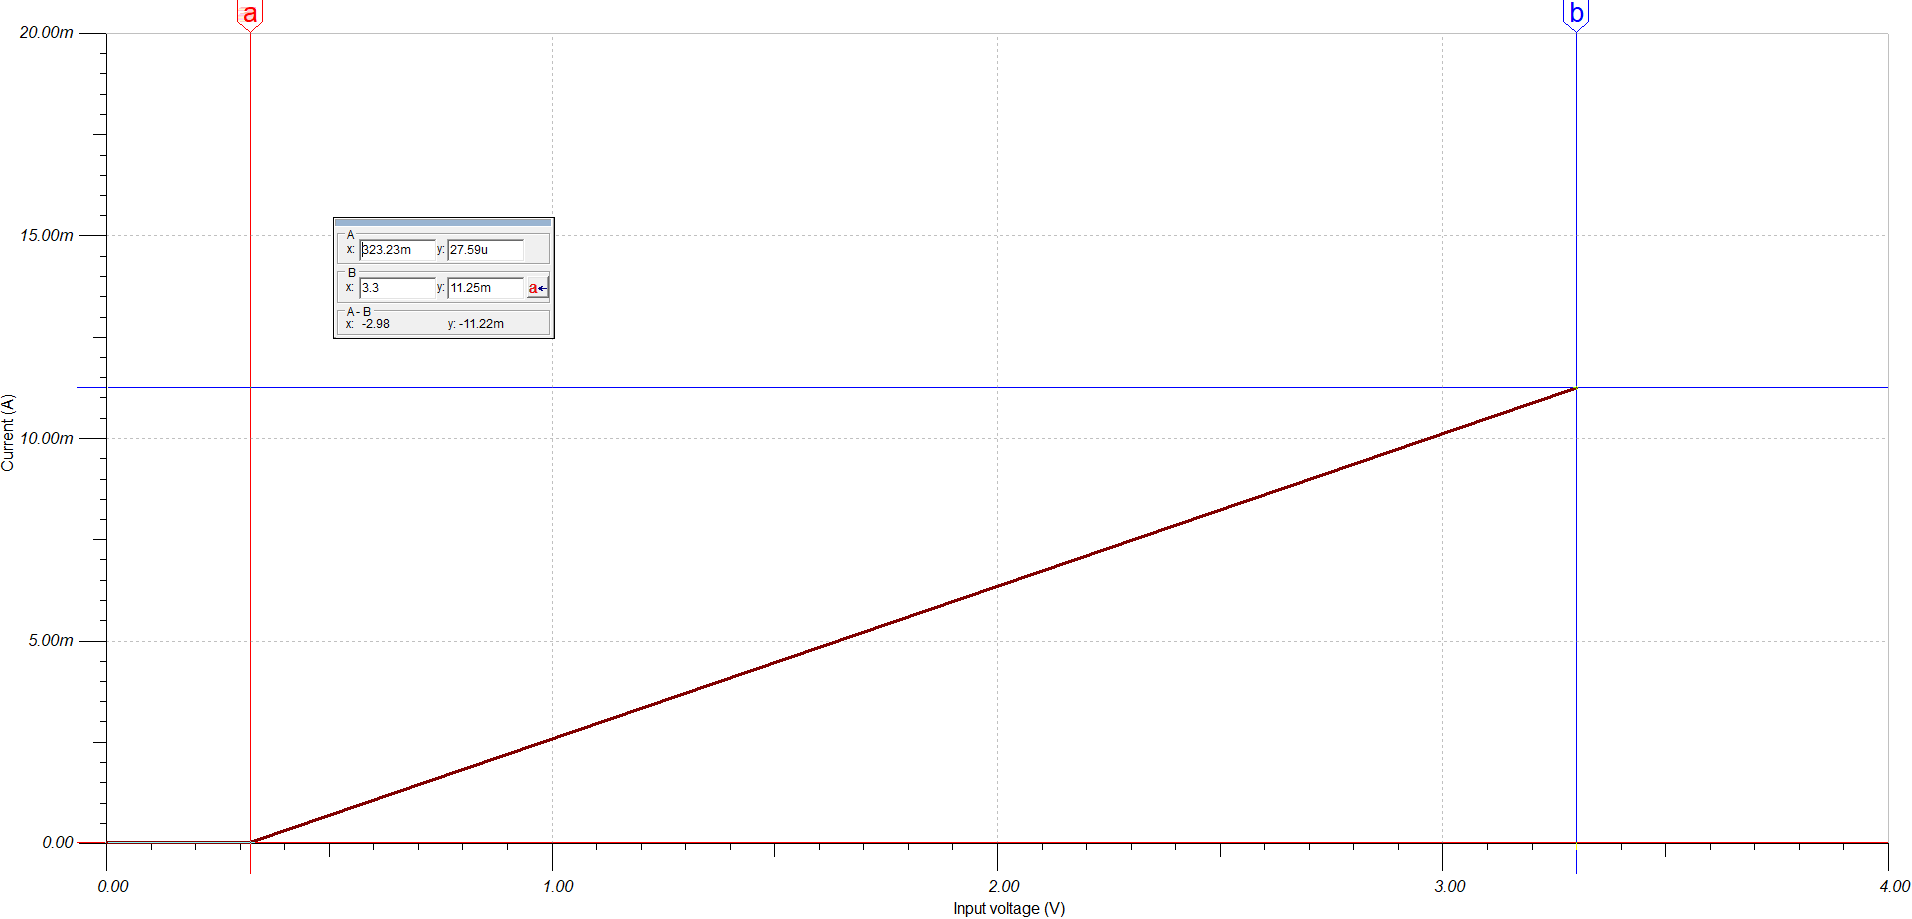
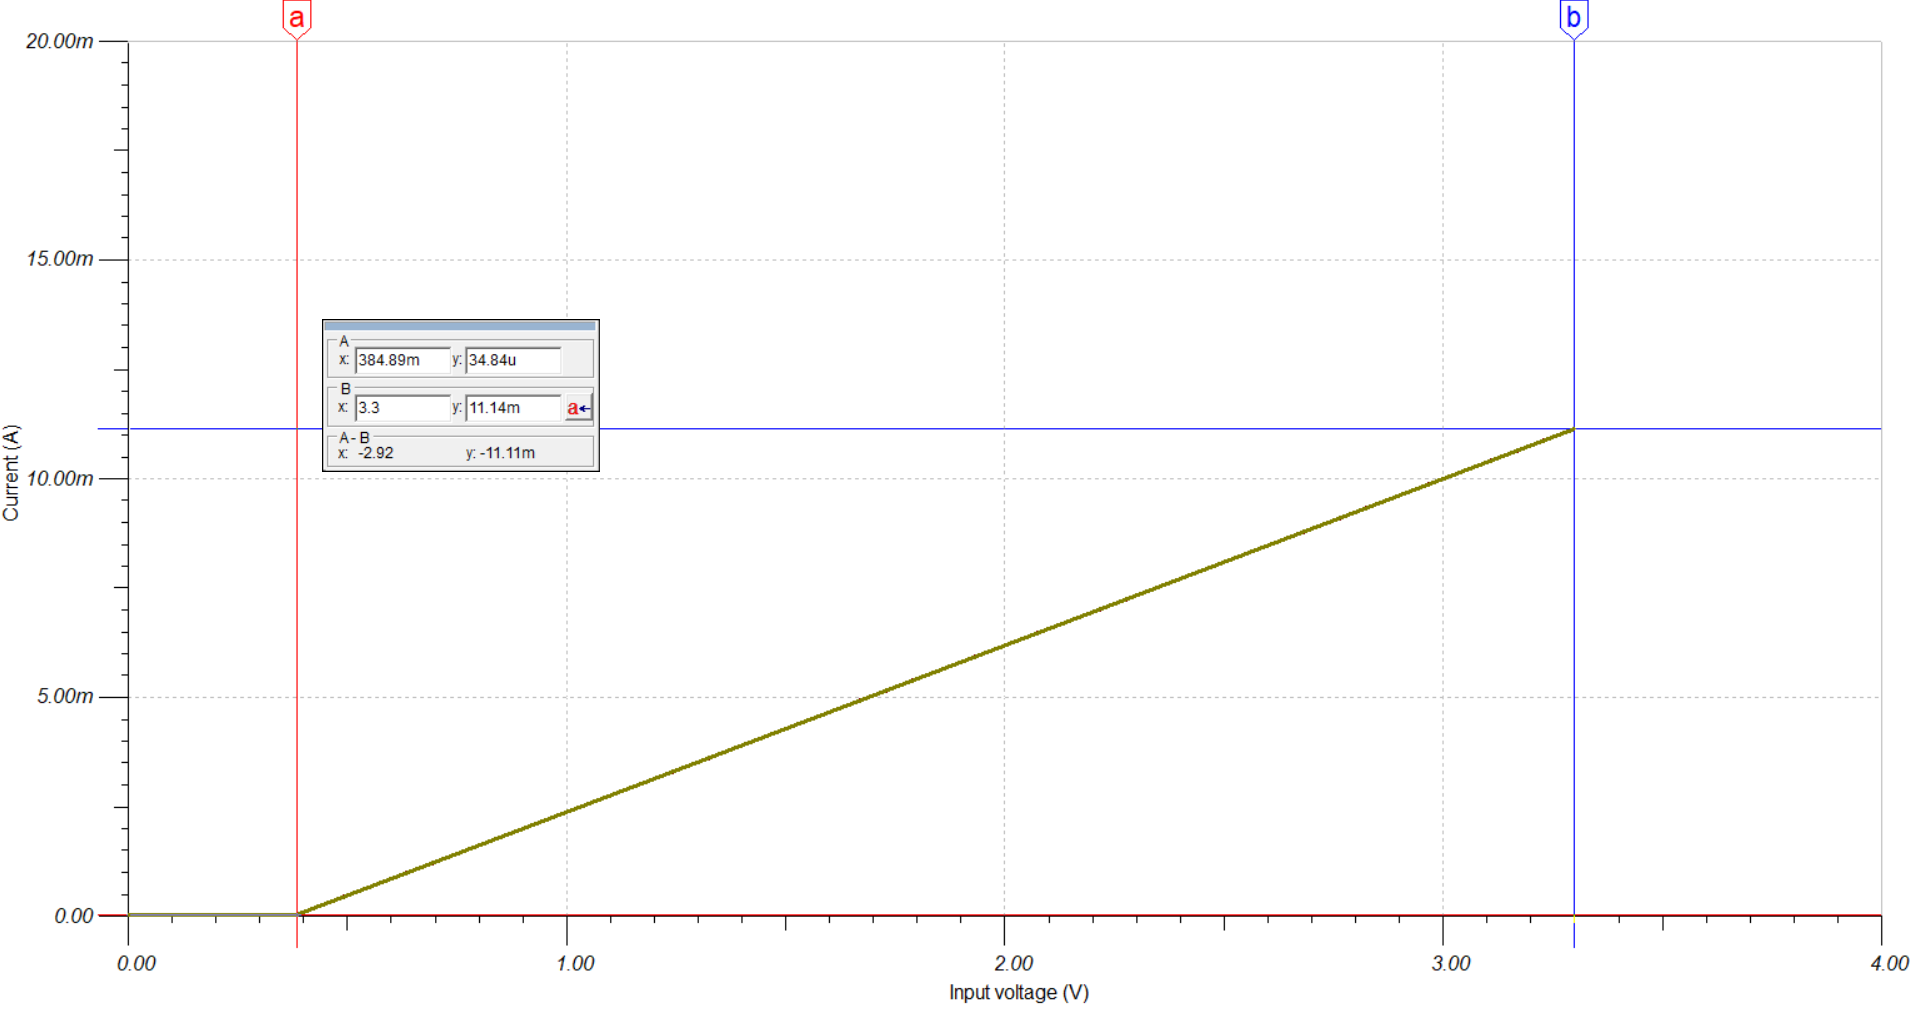
fix equation current source

diff --git a/chapters/chuong3.tex b/chapters/chuong3.tex
@@ -1127,7 +1127,7 @@ Các linh kiện laser diode là linh kiện bán dẫn được điều khiển
 \begin{itemize}
     \item Tùy chỉnh các giá trị tùy ý theo thiết kế: thông qua việc thay đổi các giá trị điện trở trong mạng phản hồi và điện trở lấy mẫu ($R_{sense}$), người thiết kế có thể thiết lập tỷ lệ giữa điện áp điều khiển ($V_{IN}$) và dòng điện ngõ ra ($I_{OUT}$). Điều này cho phép mạch tương thích với nhiều dải tín hiệu từ các bộ DAC khác nhau của vi điều khiển. Bên cạnh đó có thể tùy chỉnh cặp điện trở trên đường feedback và ngõ vào để chọn mức điện áp bật ngõ ra mong muốn.
     \item Khả năng thích ứng với tải: các giá trị điện trở và tụ điện trong mạch bù có thể được tính toán lại để tối ưu hóa thời gian xác lập (settling time) và độ quá chỉnh (overshoot), tùy thuộc vào đặc tính điện cảm hoặc điện dung của tải thực tế trên board mạch.
-    \item Cấu trúc high-side với MOSFET kênh P: so với các cấu trúc nguồn dòng kiểu low-side hoặc nguồn dòng dùng transistor lưỡng cực (BJT), thiết kế này sở hữu các ưu điểm kỹ thuật nổi bật. Tối ưu hóa quản lý ground, việc đặt MOSFET ở phía nguồn (high-side) cho phép tải được nối trực tiếp xuống ground. Đây là yếu tố quan trọng trong thiết kế hệ thống vệ tinh, giúp giảm nhiễu điện từ (EMI), đơn giản hóa việc đi dây (routing) và hỗ trợ tản nhiệt trực tiếp cho linh kiện tải qua mặt phẳng ground của PCB. Điều khiển bằng điện áp với trở kháng cao, MOSFET là linh kiện điều khiển bằng điện áp, do đó dòng điện tiêu thụ tại cực G là rất nhỏ. Điều này giúp Op-amp hoạt động ổn định hơn, không bị quá tải dòng điện ngõ ra và giảm thiểu sai số do dòng phân cực gây ra so với khi dùng BJT.
+    \item Cấu trúc high-side với MOSFET kênh P: so với các cấu trúc nguồn dòng kiểu low-side hoặc nguồn dòng dùng transistor lưỡng cực (BJT), thiết kế này sở hữu các ưu điểm kỹ thuật nổi bật. Tối ưu hóa quản lý ground, việc đặt MOSFET ở phía nguồn (high-side) cho phép tải được nối trực tiếp xuống ground.
     \item Đáp ứng tần số và độ ổn định của hệ thống: Sơ đồ tham khảo sử dụng mạng bù RC tại ngõ ra của opamp giúp kiểm soát pha phản hồi của tín hiệu ngõ ra với ngõ vào. Cách thiết kế này cho phép người thiết kế tùy chỉnh các giá trị tụ điện và điện trở phản hồi để điều chỉnh lề dự trữ pha (Phase Margin), giúp triệt tiêu hiện tượng tự dao động và ổn định dòng tải.
 \end{itemize}
 
@@ -1276,16 +1276,53 @@ V_{REF} = \frac{V_{IN(max)} + V_{S(min)}}{2}
     \item $V_{REF}$ quá thấp: opamp dễ rơi vào trạng thái bão hòa âm, điện áp ngõ ra tiến gần về $0\,V$, P-MOSFET mở mạnh làm dòng điện tăng cao ngoài kiểm soát, gây nguy cơ hỏng laser diode hoặc linh kiện công suất.
 \end{itemize}
 
-Vai trò của tụ điện hồi tiếp ở ngõ ra: Tụ điện phản hồi $C$ đặt song song với trở phản hồi tạo nên một vòng lặp phụ hoạt động dựa trên sự phân tách tần số tín hiệu:
+\textbf{Vai trò của tụ điện hồi tiếp ở ngõ ra:} 
+
+Trong mạch này, tụ bù $C_1$ được mắc từ ngõ ra opamp về nút hồi tiếp $V_-$. Ở chế độ DC, tụ điện xem như hở mạch nên không làm thay đổi điểm làm việc tĩnh. Ở miền tần số cao, tụ tạo thêm đường hồi tiếp AC để giới hạn băng thông vòng lặp và bù pha.
 
 \begin{itemize}
-    \item Tách biệt đáp ứng AC và DC: Ở tần số thấp (DC), tụ điện có trở kháng vô cùng lớn, vòng phản hồi được quyết định bởi mạng điện trở. Ở tần số cao (nhiễu, vọt lố), trở kháng tụ giảm mạnh, tạo thành một đường tắt (Low-impedance path) dẫn trực tiếp biến động từ ngõ ra về chân đảo (-).
-    \item Triệt tiêu tức thời: Cơ chế này cho phép Op-amp nhận diện các xung nhọn (Spikes) tại ngõ ra ngay lập tức mà không phải đợi thông tin truyền qua các linh kiện có quán tính lớn như MOSFET. Phản ứng bù trừ của Op-amp diễn ra đồng thời với sự phát sinh nhiễu, giúp triệt tiêu dao động từ giai đoạn khởi tạo.
-    \item Quá trình nạp xả năng lượng của tụ điện ngăn cản sự thay đổi đột ngột điện áp tại ngõ ra Op-amp. Chính nhờ việc nhận tin nhanh, Op-amp có thể chủ động thực hiện điều chỉnh mượt mà. Hệ quả là đáp ứng bước (Step response) của hệ thống chuyển từ trạng thái vọt lố, dao động (Underdamped) sang trạng thái ổn định, không vọt lố (Overdamped/Critically damped).
-    \item Các dao động tự kích thực chất là tổng hợp của các thành phần sóng sin tần số cao. Việc thiết lập tần số cắt $f_c = 1 / (2\pi RC)$ tạo ra một bộ lọc thông thấp (Low-pass filter) tích cực. Bằng cách chọn giá trị $C$ sao cho $f_c$ thấp hơn tần số dao động ký sinh của mạch, các thành phần Fourier gây nhiễu bị suy giảm biên độ mạnh trước khi quay lại ngõ vào đảo. Điều này đảm bảo Op-amp chỉ xử lý các lệnh điều khiển hữu dụng và bỏ qua các thành phần nhiễu cao tần.
-    \item Tụ điện được tính toán để ép độ lợi vòng lặp (Loop Gain) xuống dưới mức đơn vị ($0\text{dB}$) trước khi độ trễ pha chạm ngưỡng $180^\circ$. Khi độ lợi nhỏ hơn 1 tại tần số nhạy cảm, mọi dao động không thể tự duy trì và bị triệt tiêu, đảm bảo hệ thống luôn hội tụ về giá trị xác lập DC.
+    \item Cơ sở gây mất ổn định do điện dung ký sinh:Theo phân tích ổn định opamp khi có tải điện dung, điện dung tải hoặc điện dung ký sinh $C_L$ tại ngõ ra opamp kết hợp với điện trở ngõ ra $R_O$ tạo thêm một cực:
+    \begin{equation*}
+    f_{p,L}=\frac{1}{2\pi R_O C_L}
+    \end{equation*}
+    Cực này làm pha trong vòng lặp trễ thêm. Với mạch nguồn dòng, $C_L$ không chỉ là một tụ rời mà còn gồm điện dung cổng MOSFET, điện dung ngõ vào opamp và điện dung ký sinh trên đường mạch. Khi pha vòng lặp tiến gần $-180^\circ$ trong vùng độ lợi vòng lặp còn lớn, tín hiệu hồi tiếp âm có thể trở thành tương đương phản hồi dương. Điều kiện tự dao động có thể viết dưới dạng:
+    \begin{equation*}
+    |A(j\omega)\beta(j\omega)| \geq 1,\qquad \angle A(j\omega)\beta(j\omega) \approx -180^\circ
+    \end{equation*}
+    Trong đó $A(j\omega)$ là độ lợi của opamp kèm tầng MOSFET và $\beta(j\omega)$ là hệ số hồi tiếp.
+
+    \item Cách chọn ban đầu cho mạch nguồn dòng: Để chọn giá trị ban đầu của $C_1$, có thể đặt các nguồn tín hiệu về mass trong phân tích AC và tính điện trở tương đương nhìn từ nút hồi tiếp:
+    \begin{equation*}
+    R_{eq}=R_1\parallel R_2=\frac{R_1R_2}{R_1+R_2}
+    \end{equation*}
+    Tụ $C_1$ tạo tần số bù xấp xỉ:
+    \begin{equation*}
+    f_{\mathrm{comp}}\approx\frac{1}{2\pi R_{eq}C_1}
+    \end{equation*}
+    Suy ra giá trị tụ bù ban đầu:
+    \begin{equation*}
+    C_1\approx\frac{1}{2\pi R_{eq}f_{\mathrm{comp}}}
+    \end{equation*}
+    Nếu mô phỏng mạch không có tụ cho thấy dao động, giá trị $f_{\mathrm{comp}}$ được chọn theo hướng bảo đảm dự trữ pha, sau đó hiệu chỉnh lại bằng mô phỏng transient hoặc phân tích AC vòng lặp.
+
+    Với thiết kế đang xét, $R_1=95\,k\Omega$ và $R_2=100\,k\Omega$, nên:
+    \begin{equation*}
+    R_{eq}=95\,k\Omega\parallel100\,k\Omega\approx48.7\,k\Omega
+    \end{equation*}
+    Nếu chọn $C_1=2200\,\mathrm{pF}$ theo sơ đồ nguyên lý, tần số bù xấp xỉ:
+    \begin{equation*}
+    f_{\mathrm{comp}}\approx\frac{1}{2\pi\times48.7\,k\Omega\times2200\,\mathrm{pF}}\approx1.49\,kHz
+    \end{equation*}
+    Giá trị này dùng để giảm đáp ứng vòng lặp tại vùng cao tần và tăng dự trữ pha. Do tầng MOSFET có điện dung cổng thay đổi theo điểm làm việc, giá trị $C_1$ cuối cùng cần được xác nhận bằng mô phỏng transient hoặc phân tích AC vòng lặp.
 
 \end{itemize}
+
+% // Các item cũ được giữ lại để tham khảo:
+% // \item Tách biệt đáp ứng AC và DC: Ở tần số thấp (DC), tụ điện có trở kháng vô cùng lớn, vòng phản hồi được quyết định bởi mạng điện trở. Ở tần số cao (nhiễu, vọt lố), trở kháng tụ giảm mạnh, tạo thành một đường tắt (Low-impedance path) dẫn trực tiếp biến động từ ngõ ra về chân đảo (-).
+% // \item Triệt tiêu tức thời: Cơ chế này cho phép Op-amp nhận diện các xung nhọn (Spikes) tại ngõ ra ngay lập tức mà không phải đợi thông tin truyền qua các linh kiện có quán tính lớn như MOSFET. Phản ứng bù trừ của Op-amp diễn ra đồng thời với sự phát sinh nhiễu, giúp triệt tiêu dao động từ giai đoạn khởi tạo.
+% // \item Quá trình nạp xả năng lượng của tụ điện ngăn cản sự thay đổi đột ngột điện áp tại ngõ ra Op-amp. Chính nhờ việc nhận tin nhanh, Op-amp có thể chủ động thực hiện điều chỉnh mượt mà. Hệ quả là đáp ứng bước (Step response) của hệ thống chuyển từ trạng thái vọt lố, dao động (Underdamped) sang trạng thái ổn định, không vọt lố (Overdamped/Critically damped).
+% // \item Các dao động tự kích thực chất là tổng hợp của các thành phần sóng sin tần số cao. Việc thiết lập tần số cắt $f_c = 1 / (2\pi RC)$ tạo ra một bộ lọc thông thấp (Low-pass filter) tích cực. Bằng cách chọn giá trị $C$ sao cho $f_c$ thấp hơn tần số dao động ký sinh của mạch, các thành phần Fourier gây nhiễu bị suy giảm biên độ mạnh trước khi quay lại ngõ vào đảo. Điều này đảm bảo Op-amp chỉ xử lý các lệnh điều khiển hữu dụng và bỏ qua các thành phần nhiễu cao tần.
+% // \item Tụ điện được tính toán để ép độ lợi vòng lặp (Loop Gain) xuống dưới mức đơn vị ($0\text{dB}$) trước khi độ trễ pha chạm ngưỡng $180^\circ$. Khi độ lợi nhỏ hơn 1 tại tần số nhạy cảm, mọi dao động không thể tự duy trì và bị triệt tiêu, đảm bảo hệ thống luôn hội tụ về giá trị xác lập DC.
 
 
 \begin{figure}[H]
@@ -1295,7 +1332,7 @@ Vai trò của tụ điện hồi tiếp ở ngõ ra: Tụ điện phản hồi 
     \label{fig:laser-no-cap-out}
 \end{figure}
 
-Trong hình thể hiện sự dao động ngõ ra khi không có tụ hồi tiếp, cho thấy dòng ngay tại thời điểm bật sẽ chưa ổn định và dao động trong vài chu kỳ do ngõ ra opamp dao động. Trong thiết kế do tần số mạch hoạt động thấp và độ lợi hồi tiếp nhỏ nên giúp tín hiệu dao động tắt dần trong vài chu kỳ. Trong trường hợp xấu nhất thì tín hiệu này có thể không tắt mà còn gây ra dao động và tự biến thành một nguồn dao động.
+Trong hình thể hiện sự dao động ngõ ra khi không có tụ hồi tiếp, cho thấy dòng ngay tại thời điểm bật sẽ chưa ổn định và dao động trong vài chu kỳ do ngõ ra opamp dao động. Trong thiết kế do tần số mạch hoạt động thấp và độ lợi hồi tiếp nhỏ nên giúp tín hiệu dao động tắt dần trong vài chu kỳ. Trong trường hợp xấu nhất thì tín hiệu này có thể không tắt mà còn gây ra dao động và tự biến thành một nguồn dao động. Hình \ref{fig:laser-current-int-transien} mô phỏng khi có tụ hồi tiếp.
 
 \subsubsection{Mô phỏng nguyên lý mạch nguồn dòng}
 \label{subsec:simulate-current-source}
@@ -1304,7 +1341,7 @@ Sử dụng phần mềm TINA-TI để mô phỏng nguồn dòng trong thiết k
 
 \begin{figure}[H]
     \centering
-    \includegraphics[width=0.9\textwidth]{picture/laser/simulate-current-int.JPG}
+    \includegraphics[width=0.9\textwidth]{picture/laser/simulate-current-int.png}
     \caption{Sơ đồ mô phỏng nguồn dòng cho internal laser}
     \label{fig:laser-simulate-current-int}
 \end{figure}
@@ -1350,7 +1387,7 @@ Sử dụng tính năng DC Analysis Table để đo các mức điện áp tại
 
 \begin{figure}[H]
     \centering
-    \includegraphics[width=0.9\textwidth]{picture/laser/current-int-transient.jpg}
+    \includegraphics[width=0.9\textwidth]{picture/laser/current-int-transient.png}
     \caption{Mô phỏng trạng thái mạch internal ở thời điểm cấp nguồn}
     \label{fig:laser-current-int-transient}
 \end{figure}
@@ -1359,7 +1396,7 @@ Sử dụng chức năng transient để mô phỏng thời gian quá độ củ
 
 \begin{figure}[H]
     \centering
-    \includegraphics[width=0.9\textwidth]{picture/laser/simulate-current-ext.JPG}
+    \includegraphics[width=0.9\textwidth]{picture/laser/simulate-current-ext.png}
     \caption{Sơ đồ mô phỏng nguồn dòng cho external laser}
     \label{fig:laser-simulate-current-ext}
 \end{figure}
@@ -1405,7 +1442,7 @@ Tương tự như ở nguồn internal, nguồn external cũng mô phỏng đặ
 
 \begin{figure}[H]
     \centering
-    \includegraphics[width=0.9\textwidth]{picture/laser/current-ext-transient.jpg}
+    \includegraphics[width=0.9\textwidth]{picture/laser/current-ext-transient.png}
     \caption{Mô phỏng trạng thái mạch external ở thời điểm cấp nguồn}
     \label{fig:laser-current-ext-transient}
 \end{figure}
